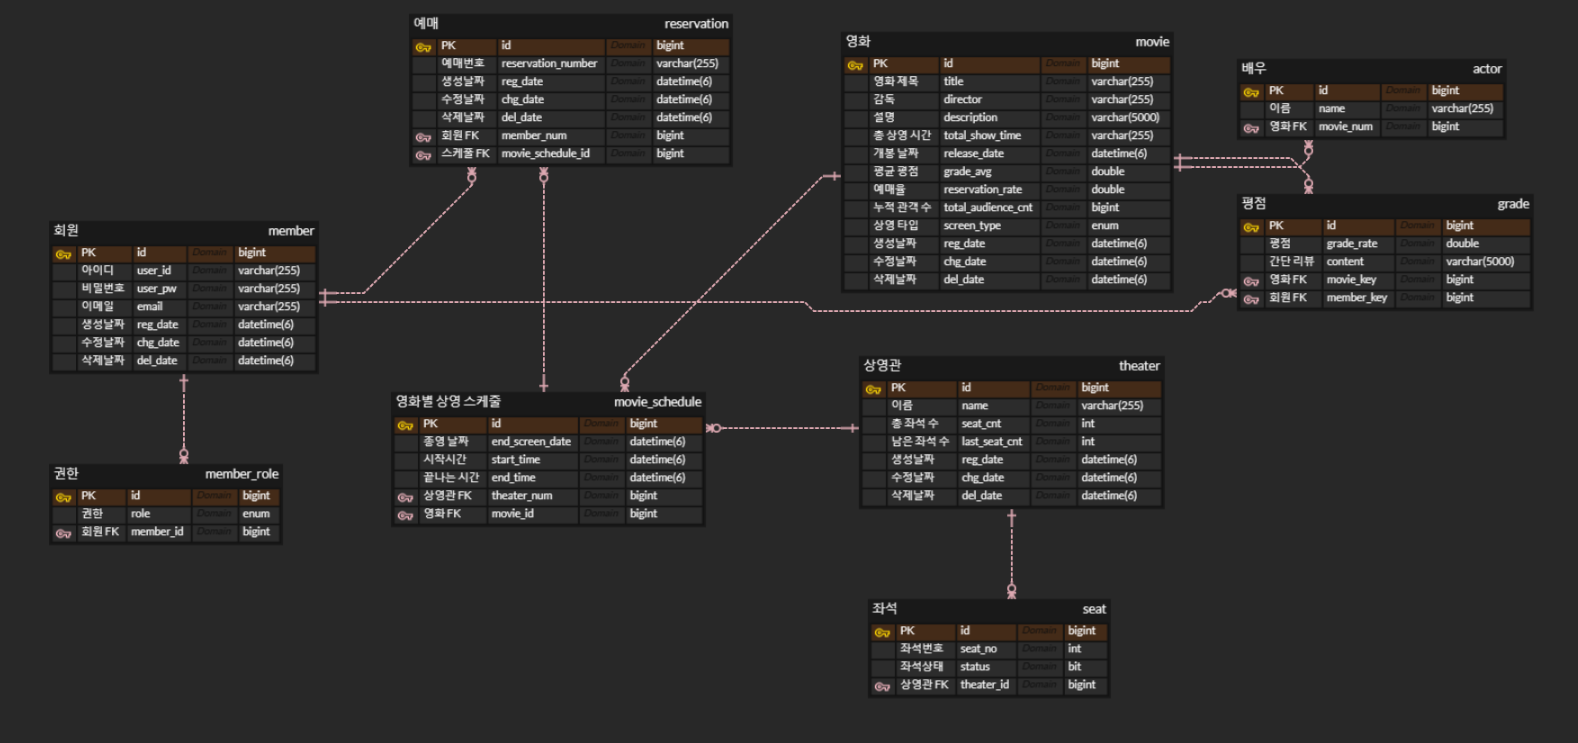
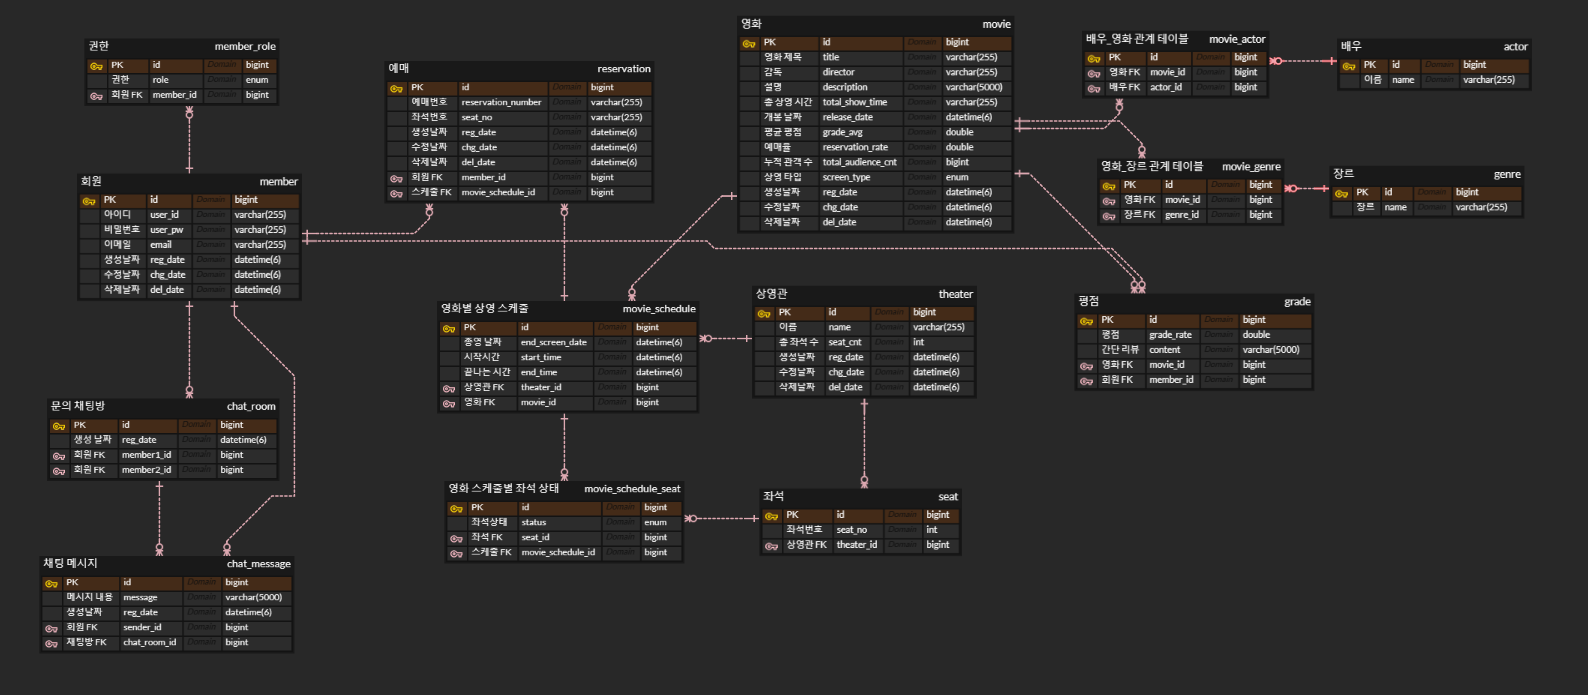
Docs: 피드백 반영하여 ERD변경 및 README 수정

diff --git a/README.md b/README.md
@@ -71,11 +71,9 @@
     - 예매 완료 시 예매 번호(오늘 날짜 + 랜덤 숫자 4자리), 영화 정보(포스터, 영화 이름), 상영관 정보(상영관, 시작 시간, 끝 시간)를 메일로 발송한다.
     - 메일 발송과 함께 예매 정보를 DB에 저장한다.
     - 예매 번호는 unique해야한다.
-    - 예매 후 영화가 끝나는 시간에 회원에게 해당 영화에 대한 평점을 작성할 수 있는 권한이 부여된다.(RATE 권한) -> Scheduler
 - 예매취소 기능
     - 회원 및 관리자는 예매를 취소할 수 있다.
     - 예매 번호를 통해 취소한다.
-    - 예매 취소 시 평점 권한이 부여되는 스케줄도 취소되야한다.
 - 예매조회 기능
     - 회원 및 관리자는 예매를 조회할 수 있다.
     - 회원 아이디를 통해 해당 회원의 예매 리스트를 확인 가능하고 예매 번호를 통해 상세 조회가 가능하다.
@@ -83,7 +81,7 @@
 ## [평점]
 
 - 평점 기능
-    - 평점을 작성할 수 있는 권한이 있는 회원은 평점 작성이 가능하다.
+    - 회원이 특정 영화에 대한 평점을 작성하려 할 시 회원이 해당 영화를 시청하였는지 확인 후 평점 작성이 가능하다.
     - 영화 이름, 평점(double), 간단한 글(nullable)을 작성할 수 있다.
 - 평점 조회 기능
     - 회원 및 관리자는 영화별 평점 리스트, 회원별 평점 리스트를 조회할 수 있다.
